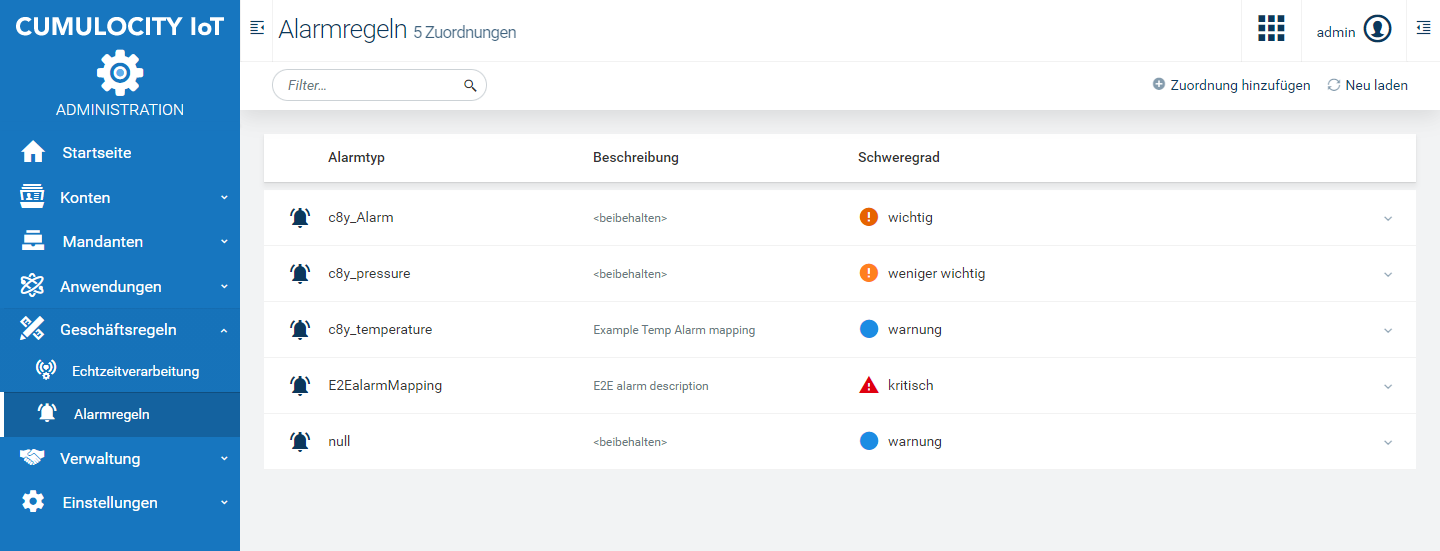
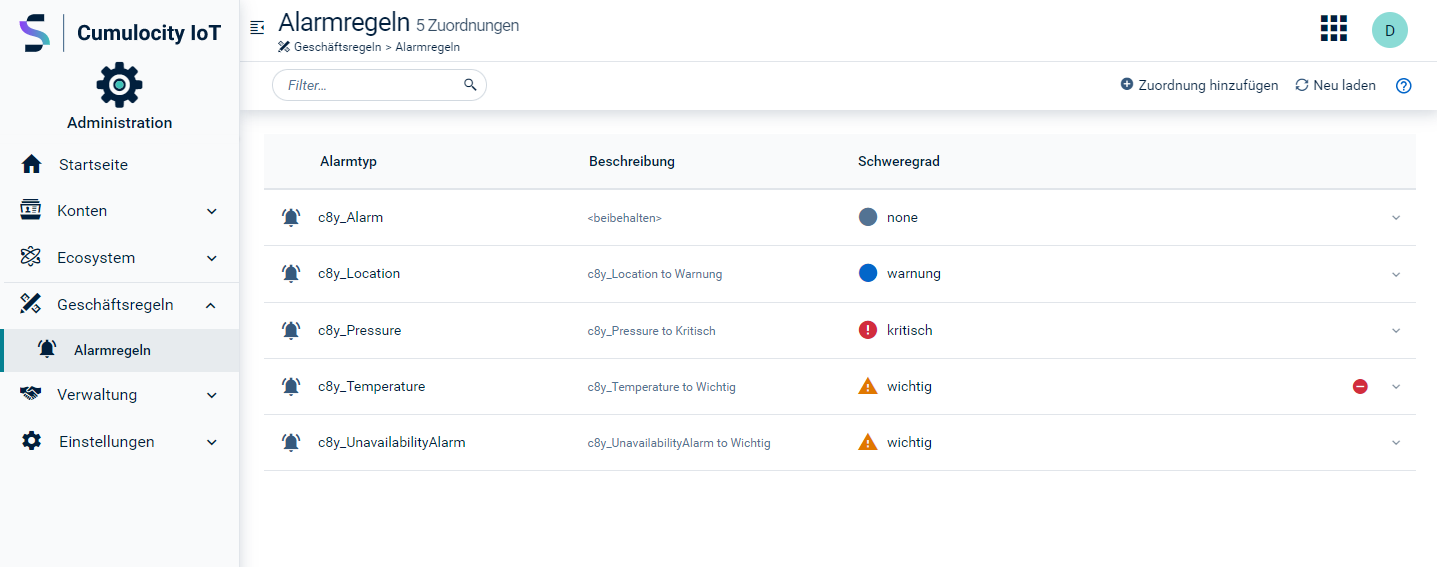
MTM-49695 adapting screenshots in the Manage Business Rules section

diff --git a/content/users-guide/administration-bundle/business-rules.md b/content/users-guide/administration-bundle/business-rules.md
@@ -39,8 +39,6 @@ Expand an alarm mapping to edit it. You may modify the description and the alarm
 Refresh the list to discard any changes without saving.
 {{< /c8y-admon-info >}}
 
-<img src="/images/users-guide/Administration/admin-alarm-mapping-edit.png" alt="Edit alarm mapping">
-
 #### To delete an alarm mapping
 
 To delete an alarm mapping, hover over it and click the delete icon which appears on hovering over the row.
